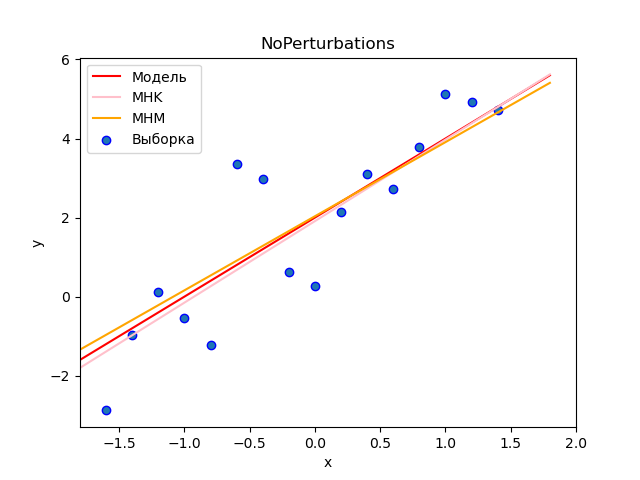
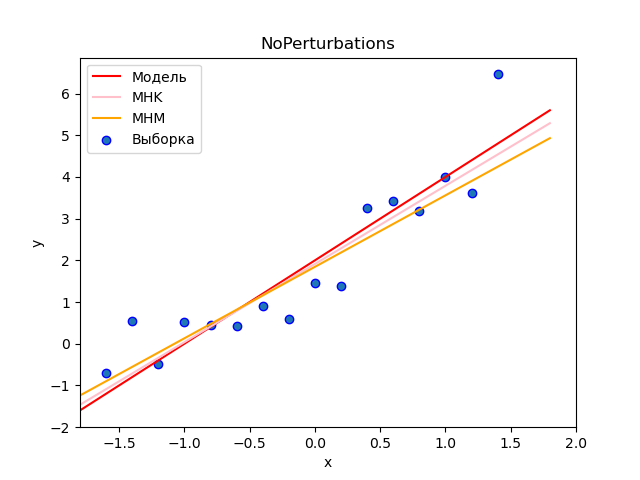
Add distance estimation

diff --git a/reports/lab6 report/parts/results.tex b/reports/lab6 report/parts/results.tex
@@ -1,10 +1,12 @@
 \subsection{Оценки коэффициентов линейной регрессии}
+	
+	Метрика удаленности: $distance = \sum_{i=0}^{n}(y_{model}[i]-y_{regr}[i])^2$
 	\subsubsection{Выборка без возмущений}
 		\begin{enumerate}
 			\item{Критерий наименьших квадратов:}
-			$\hat{a}\approx 1.91$, $\hat{b}\approx 2.06$
+			$\hat{a}\approx 1.91$, $\hat{b}\approx 1.87$
 			\item{Критерий наименьших модулей:}
-			$\hat{a}\approx 2.03$, $\hat{b}\approx 1.87$
+			$\hat{a}\approx 1.84$, $\hat{b}\approx 1.71$
 		\end{enumerate}
 		\begin{figure}[H]
 			\centering
@@ -12,13 +14,15 @@
 			\caption{Выборка без возмущений}
 			\label{w/o_pert}
 		\end{figure}
+		МНК distance = 0.49 \\
+		МНМ distance = 2.31
 	
 	\subsubsection{Выборка с возмущениями}
 		\begin{enumerate}
 			\item{Критерий наименьших квадратов:}
-			$\hat{a}\approx 1.91$, $\hat{b}\approx 0.48$
+			$\hat{a}\approx 1.91$, $\hat{b}\approx 0.29$
 			\item{Критерий наименьших модулей:}
-			$\hat{a}\approx 2.03$, $\hat{b}\approx 1.87$
+			$\hat{a}\approx 1.62$, $\hat{b}\approx 1.88$
 		\end{enumerate}
 		\begin{figure}[H]
 			\centering
@@ -26,5 +30,7 @@
 			\caption{Выборка с возмущениями}
 			\label{w_pert}
 		\end{figure}
+		МНК distance = 66.24 \\
+		МНМ distance = 2.97
 
 	

diff --git a/MS6.py b/MS6.py
@@ -31,9 +31,17 @@ def plot_linear_regr(x, y, text):
     print('МНМ: alpha[0] = ' + str(a0) + ', alpha[1] = ' + str(a1))
 
     plt.scatter(x[1:-2], y[1:-2], label='Выборка', edgecolor='blue')
-    plt.plot(x, x * (2 * np.ones(len(x))) + 2 * np.ones(len(x)), label='Модель', color='red')
-    plt.plot(x, x * (b1 * np.ones(len(x))) + b0 * np.ones(len(x)), label='МHK', color='pink')
-    plt.plot(x, x * (a1 * np.ones(len(x))) + a0 * np.ones(len(x)), label='МHM', color='orange')
+    y_model = x * (2 * np.ones(len(x))) + 2 * np.ones(len(x))
+    y_mnk = x * (b1 * np.ones(len(x))) + b0 * np.ones(len(x))
+    y_mnm = x * (a1 * np.ones(len(x))) + a0 * np.ones(len(x))
+
+    y_dist_mnk = get_distance(y_model, y_mnk)
+    y_dist_mnm = get_distance(y_model, y_mnm)
+    print('mnk_dist: ' + str(y_dist_mnk))
+    print('mnm_dist: ' + str(y_dist_mnm))
+    plt.plot(x, y_model, label='Модель', color='red')
+    plt.plot(x, y_mnk, label='МHK', color='pink')
+    plt.plot(x, y_mnm, label='МHM', color='orange')
     plt.xlim([-1.8, 2])
 
     plt.xlabel('x')
@@ -43,6 +51,11 @@ def plot_linear_regr(x, y, text):
 
     plt.savefig(text + '.png', format='png')
     plt.show()
+
+
+def get_distance(y_model, y_regr):
+    dist_y = sum([(y_model[i] - y_regr[i])**2 for i in range(len(y_model))])
+    return dist_y
 
 
 x = np.arange(-1.8, 2, 0.2)

diff --git a/reports/lab6 report/parts/discussion.tex b/reports/lab6 report/parts/discussion.tex
@@ -1,3 +1,3 @@
 \subsection{Оценки коэффициентов линейной регрессии}
 	
-	По полученным результатам можно сказать, что используя критерий наименьших квадратов удастся точнее оценить коэффициенты линейной регрессии для выборки без возмущений. Если же редкие возмущения присутствуют, тогда лучше использовать критерий наименьших модулей.
+	По полученным результатам (см. метрику удаленности модельной прямой от теоретической - distance) можно сказать, что используя критерий наименьших квадратов удастся точнее оценить коэффициенты линейной регрессии для выборки без возмущений. Если же редкие возмущения присутствуют, тогда лучше использовать критерий наименьших модулей.
